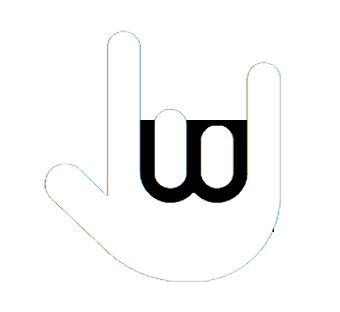
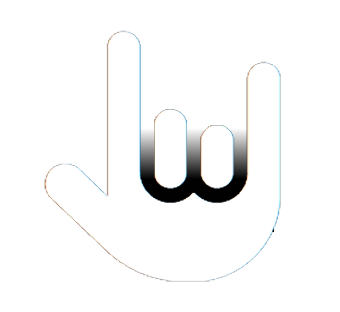
fix hand

Changed region(s): [[0.5294, 0.375, 0.7353, 0.5769], [0.4118, 0.375, 0.4706, 0.5769]]

diff --git a/menu.css b/menu.css
@@ -60,11 +60,11 @@ hr{
         opacity: 100%;
         display: block;
         margin: auto;
-        padding-right:10px
+        padding-right:5px
         /* left: 50px; */
 }
 .hand-glow-c{
-        width:15px;
+        width:10px;
         height: 15px;
         background: white;
         display: block;
